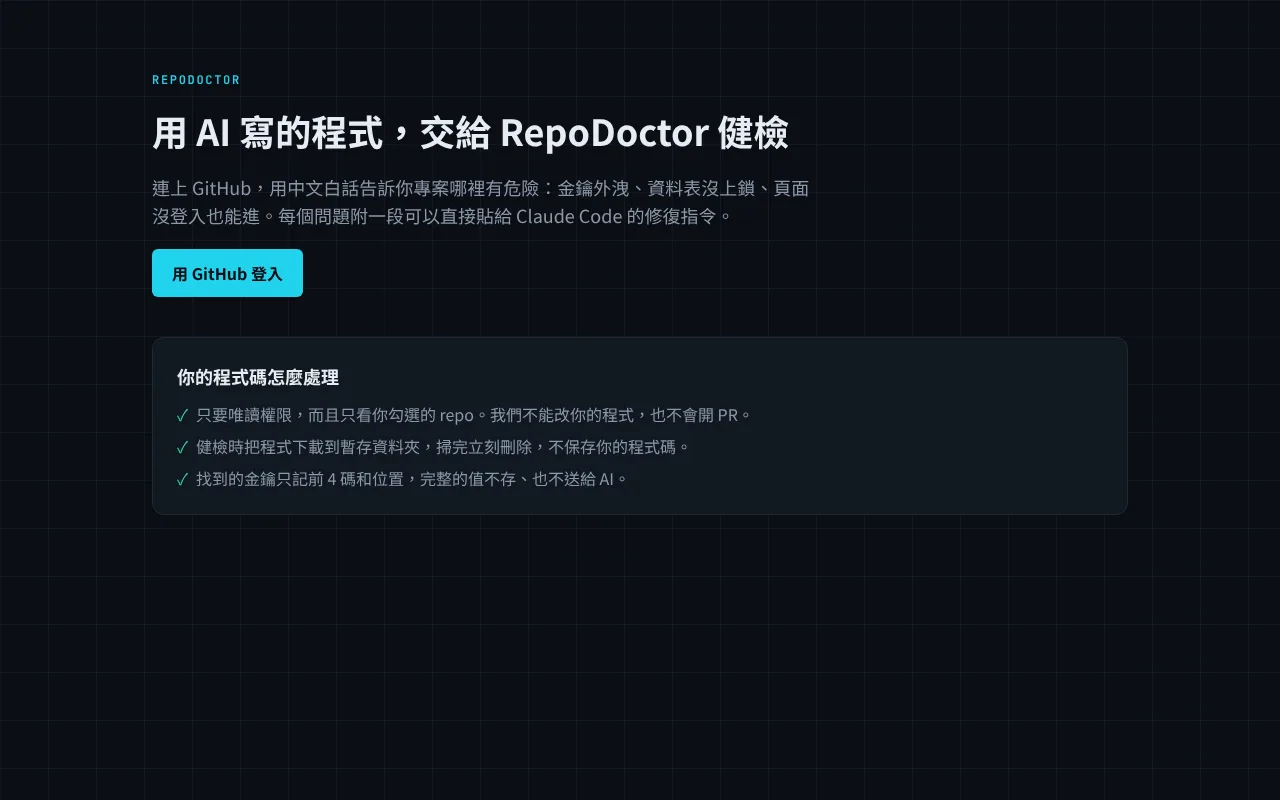
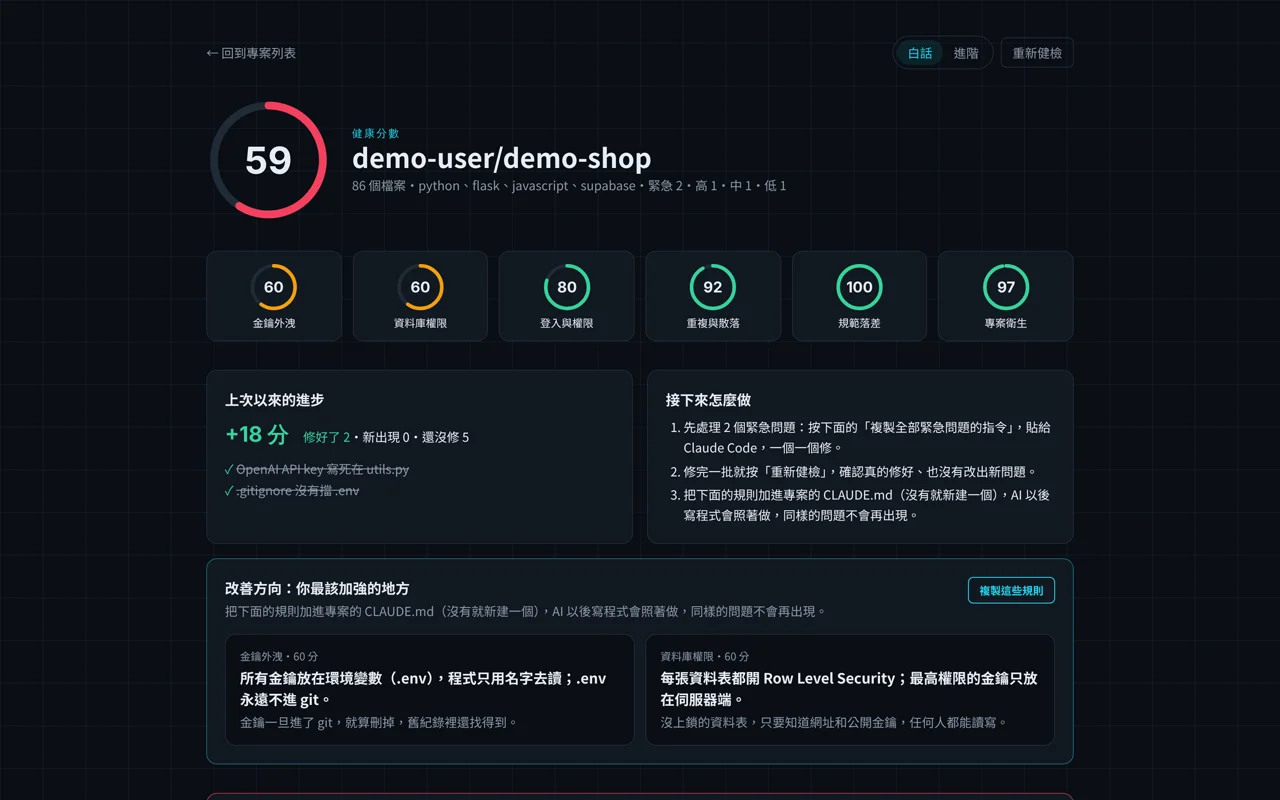
feat: RepoDoctor 升為主力作品，改用 repo 內的作品集素材
- 內容與技術標籤取自 repodoctor repo 的 docs/portfolio/README.md
- 截圖換成報告頁（docs/portfolio/05-report.png，示範專案與示範資料）
- 技術表的前端加上 Next.js

AI 協助完成。

Claude-Session: https://claude.ai/code/session_01P35kDjSVQmyhZbayaapSzU

diff --git a/data/projects.js b/data/projects.js
@@ -106,12 +106,12 @@ window.PORTFOLIO = {
           repoUrl: "https://github.com/windsjp00171-star/CODETOOL", liveUrl: "https://windsjp00171-star.github.io/CODETOOL/ticket-studio/", liveLabel: "開始製作"
         },
         {
-          id: "repodoctor", shot: "img/shots/repodoctor.webp", weight: 2, name: "RepoDoctor 程式健檢", kind: "資安健檢工具", isPrivate: true, repo: "repodoctor",
-          tagline: "連上 GitHub，用中文白話告訴你 AI 寫的程式哪裡有危險，附可以直接貼給 Claude Code 的修復指令。",
-          tags: ["GitHub 登入（唯讀）", "暫存即刪", "AI 修復指令", "Vercel"],
-          pro: ["抓出金鑰外洩、資料表沒上鎖、頁面沒登入也能進這類問題，用中文白話說明", "每個問題附一段可以直接貼給 Claude Code 的修復指令", "GitHub 登入只讀公開資料；健檢只要唯讀權限、只看使用者勾選的 repo，不能改程式、不會開 PR", "健檢時把程式下載到暫存資料夾，掃完立刻刪除，不保存程式碼", "找到的金鑰只記前 4 碼和位置，完整的值不存、也不送給 AI"],
+          id: "repodoctor", shot: "img/shots/repodoctor.webp", weight: 3, name: "RepoDoctor 程式健檢", kind: "程式健檢服務", isPrivate: true, repo: "repodoctor",
+          tagline: "給 vibe coder 的程式健檢醫生：連上 GitHub，用中文白話告訴你專案哪裡有危險，附可以直接貼給 Claude Code 的修復指令。",
+          tags: ["Next.js", "TypeScript", "Supabase RLS / Realtime", "Python", "Claude API", "GitHub App"],
+          pro: ["先用規則掃描抓出確定的問題（金鑰外洩、Supabase 資料表沒開 RLS、專案衛生），需要理解程式的部分才交給 Claude 分析，兼顧準確度與 AI 成本", "每個問題附白話說明與寫好的修復指令：要改哪裡、不能動什麼、怎麼驗證，一鍵複製交給 AI", "重新健檢時顯示上次以來修好了哪些，並依最弱的類別給出可以寫進 CLAUDE.md 的規則，讓 AI 不再犯同樣的錯", "GitHub App 只申請唯讀權限、只看勾選的專案；程式碼健檢完立刻刪除；金鑰只留前 4 碼，送給 AI 前先遮罩、送出前再檢查一次", "每張資料表都開 Row Level Security，並用測試驗證越權存取會被擋下；使用者可以一鍵刪除自己的所有資料", "用自己的 16 個實際專案驗證健檢準確度；從按下按鈕到出報告約 1 分鐘，開啟 AI 分析時每次約台幣 1–7 元"],
           faith: "這個工具和信仰沒有直接關係，但做它的人就是基督徒，做事的態度沒有兩樣：別人的程式碼不保存，找到的金鑰不交給 AI。",
-          liveUrl: "https://repodoctor-psi.vercel.app/", liveLabel: "開始健檢"
+          liveUrl: "https://repodoctor-psi.vercel.app/", liveLabel: "免費健檢我的專案"
         },
         {
           id: "secretary", weight: 1, name: "Emmark 小秘書", kind: "LINE Bot", isPrivate: true, repo: "emmask-secret",
@@ -158,7 +158,7 @@ window.PORTFOLIO = {
   ai: ["程式碼實作（約八成）", "邊界案例偵測與資安檢查", "跨專案知識複用", "Debug 根因分析", "文件與測試生成"],
   stack: [
     ["後端框架", "網站的大腦，處理運算與資料流動。", "Flask · Django · FastAPI · Node.js"],
-    ["前端介面", "使用者看到、點到的畫面。", "React · TypeScript · Tailwind CSS · Jinja2"],
+    ["前端介面", "使用者看到、點到的畫面。", "React · Next.js · TypeScript · Tailwind CSS · Jinja2"],
     ["資料庫", "把會員、報名、紀錄安全存起來。", "Supabase PostgreSQL · SQLite"],
     ["雲端檔案儲存", "存圖片、音檔、文件，不佔伺服器空間。", "Cloudflare R2"],
     ["登入身分", "用 LINE 一鍵登入，不必再記密碼；各系統之間免重複登入。", "LINE Login OAuth2 · 簽章 token 單一登入"],
